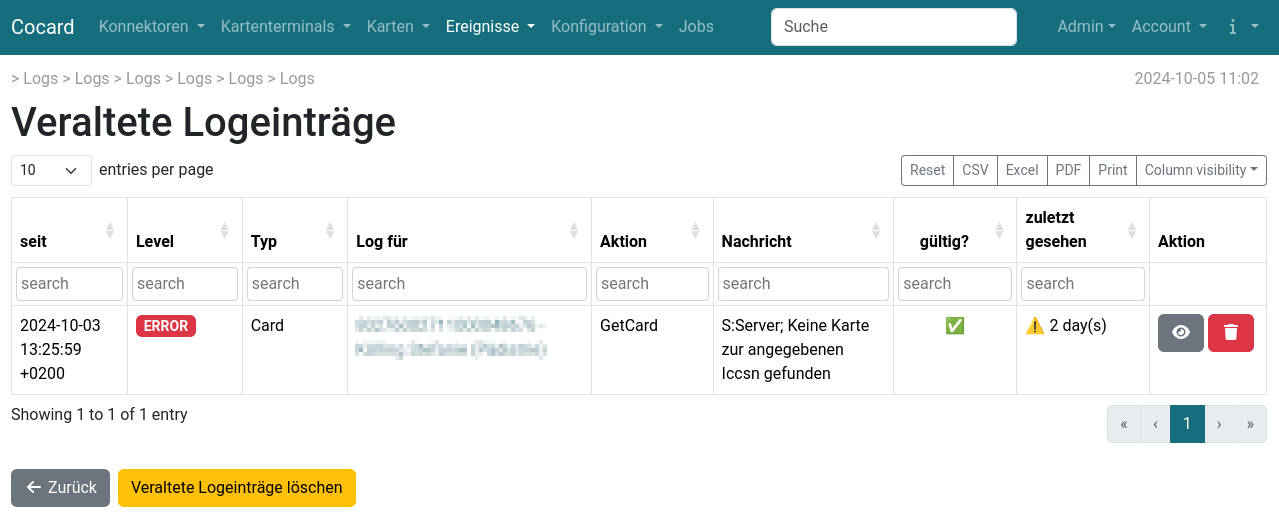
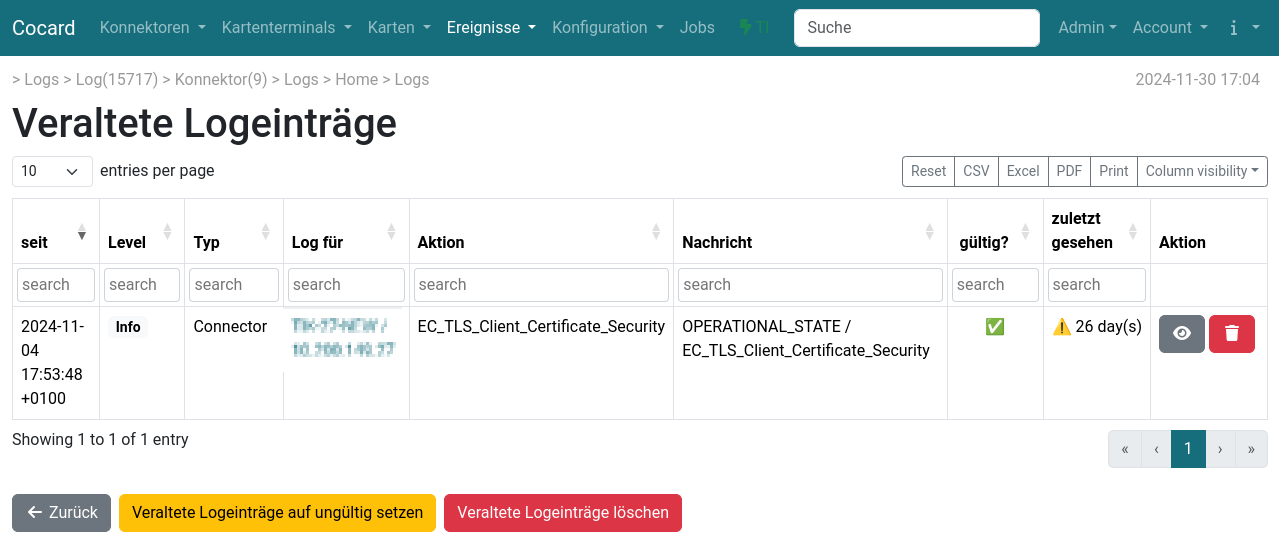
update docs

diff --git a/docs/cocard/user/logs.html b/docs/cocard/user/logs.html
@@ -296,7 +296,7 @@ Bei Cocard-internen Meldungen entspricht der Level der Text-Bezeichnung des <a h
 <p>Korrigiert man jetzt den Kontext bei der Karte und prüft den Status der PIN erneut, ist das für Cocard ein anderer Logeintrag, da der Kontext in die <code>Aktion</code> mit  eingeht. Folge: der alte Logeintrag wird nie wieder aktualisiert und bleibt stehen.</p>
 </div>
 <div class="paragraph">
-<p>Um das Aufräumen zu erleichtern gibt es eine eigene Ansicht <span class="menuseq"><b class="menu">Menu</b>&#160;<i class="fa fa-angle-right caret"></i> <b class="submenu">Ereignisse</b>&#160;<i class="fa fa-angle-right caret"></i> <b class="menuitem">Veraltete Logs</b></span>, in der man mit dem Button <b class="button">Veraltete Logeinträge löschen</b> alle alten Einträge auf einmal entfernen kann.</p>
+<p>Um das Aufräumen zu erleichtern gibt es eine eigene Ansicht <span class="menuseq"><b class="menu">Menu</b>&#160;<i class="fa fa-angle-right caret"></i> <b class="submenu">Ereignisse</b>&#160;<i class="fa fa-angle-right caret"></i> <b class="menuitem">Veraltete Logs</b></span>, in der man mit dem Button <b class="button">Veraltete Logeinträge auf ungültig setzen</b> alle alten Einträge auf ungültig setzt. Damit verschwinden diese aus der aktuellen Übersicht, bleiben aber erhalten. Mit dem Button <b class="button">Veraltete Logeinträge löschen</b> werden diese entgültig gelöscht.</p>
 </div>
 </div>
 </div>

diff --git a/docs/cocard/user/ti-lagebild.html b/docs/cocard/user/ti-lagebild.html
@@ -213,6 +213,12 @@
 <p><span class="image"><img src="../_images/ti-lagebild/ti-lagebild-alert-index.png" alt="ti lagebild alert index"></span></p>
 </div>
 <div class="paragraph">
+<p>Ist nur eine Komponente eines Dienstes nicht verfügbar, der Dienst aber als Ganzes noch funktionsfähig, erscheint in der Menüleiste ein gelbes Symbol. Die Übersicht zeigt dann, welche der Komponenten gerade verfügbar sind und welche nicht.</p>
+</div>
+<div class="paragraph">
+<p><span class="image"><img src="../_images/ti-lagebild/ti-lagebild-warning-index.png" alt="ti lagebild warning index"></span></p>
+</div>
+<div class="paragraph">
 <p>Eine Gesamtübersicht aller von der Gematik überwachten Dienste erhält man über <span class="menuseq"><b class="menu">Info</b>&#160;<i class="fa fa-angle-right caret"></i> <b class="menuitem">Lagebild TI</b></span></p>
 </div>
 <div class="paragraph">

diff --git a/docs/cocard/changelog.html b/docs/cocard/changelog.html
@@ -198,9 +198,22 @@
 <article class="doc">
 <h1 class="page">Changelog</h1>
 <div class="sect1">
-<h2 id="_0_4_7_dev_unreleased"><a class="anchor" href="#_0_4_7_dev_unreleased"></a>0.4.7-dev unreleased</h2>
+<h2 id="_0_4_7_2024_11_30"><a class="anchor" href="#_0_4_7_2024_11_30"></a>0.4.7 - 2024-11-30</h2>
 <div class="sectionbody">
-
+<div class="ulist">
+<ul>
+<li>
+<p>Fix: Clientzertifikat P12-Import jetzt auch mit Legacy-Formaten möglich,
+sofern openssl -legacy das Format unterstützt (OpenSSL-Version 3.x). Kocoboxen erzeugen noch P12 in einem Legacy-Format.</p>
+</li>
+<li>
+<p>Update TI-Lagebild-Button</p>
+</li>
+<li>
+<p>Logeinträge: neue Funktion veraltete Logeinträge auf ungültig setzen</p>
+</li>
+</ul>
+</div>
 </div>
 </div>
 <div class="sect1">
